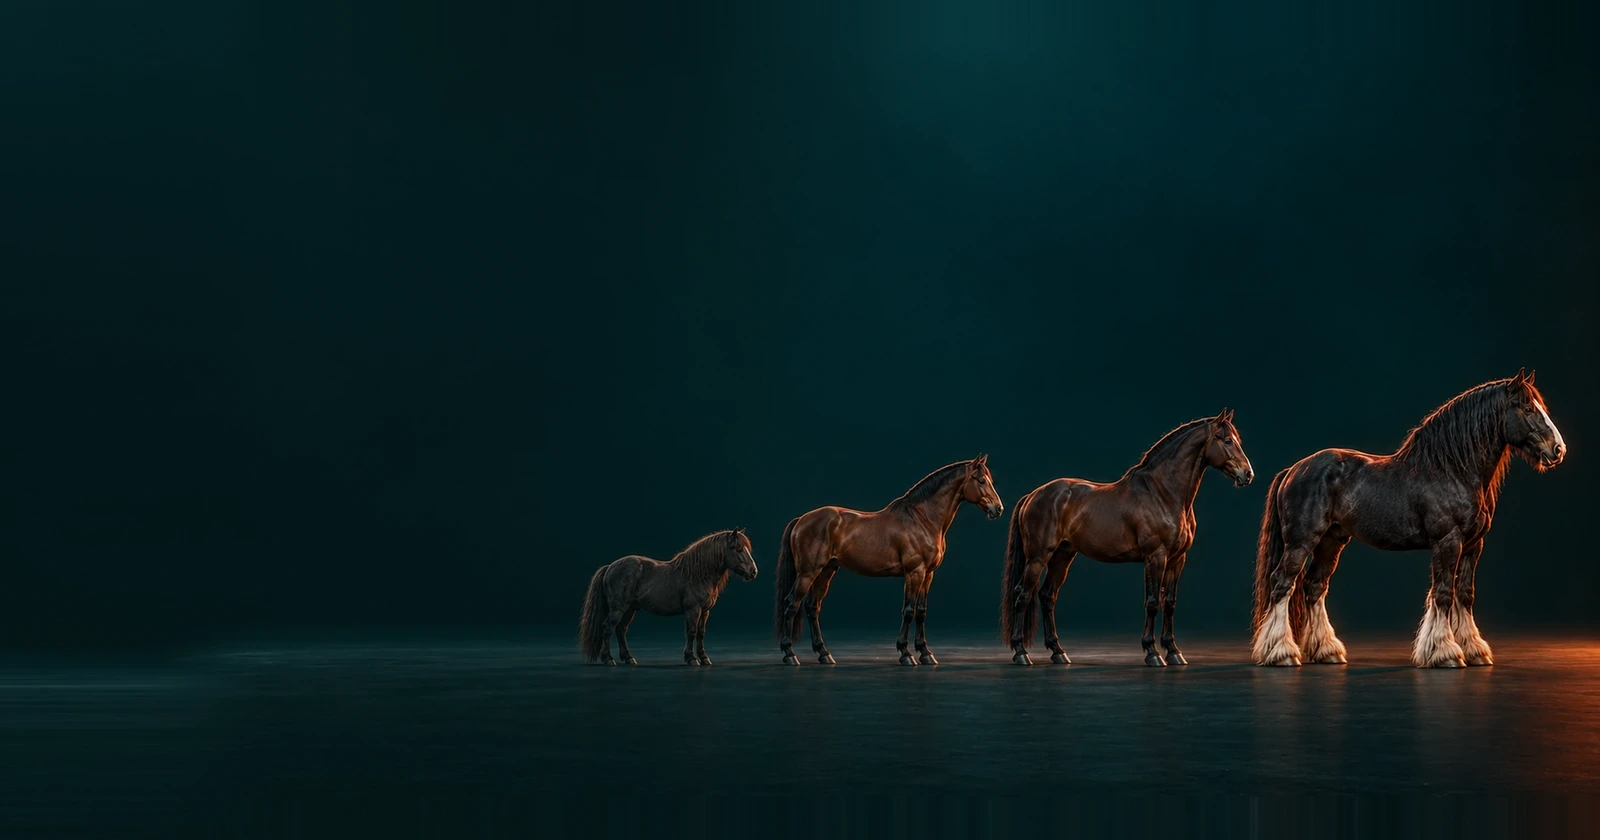
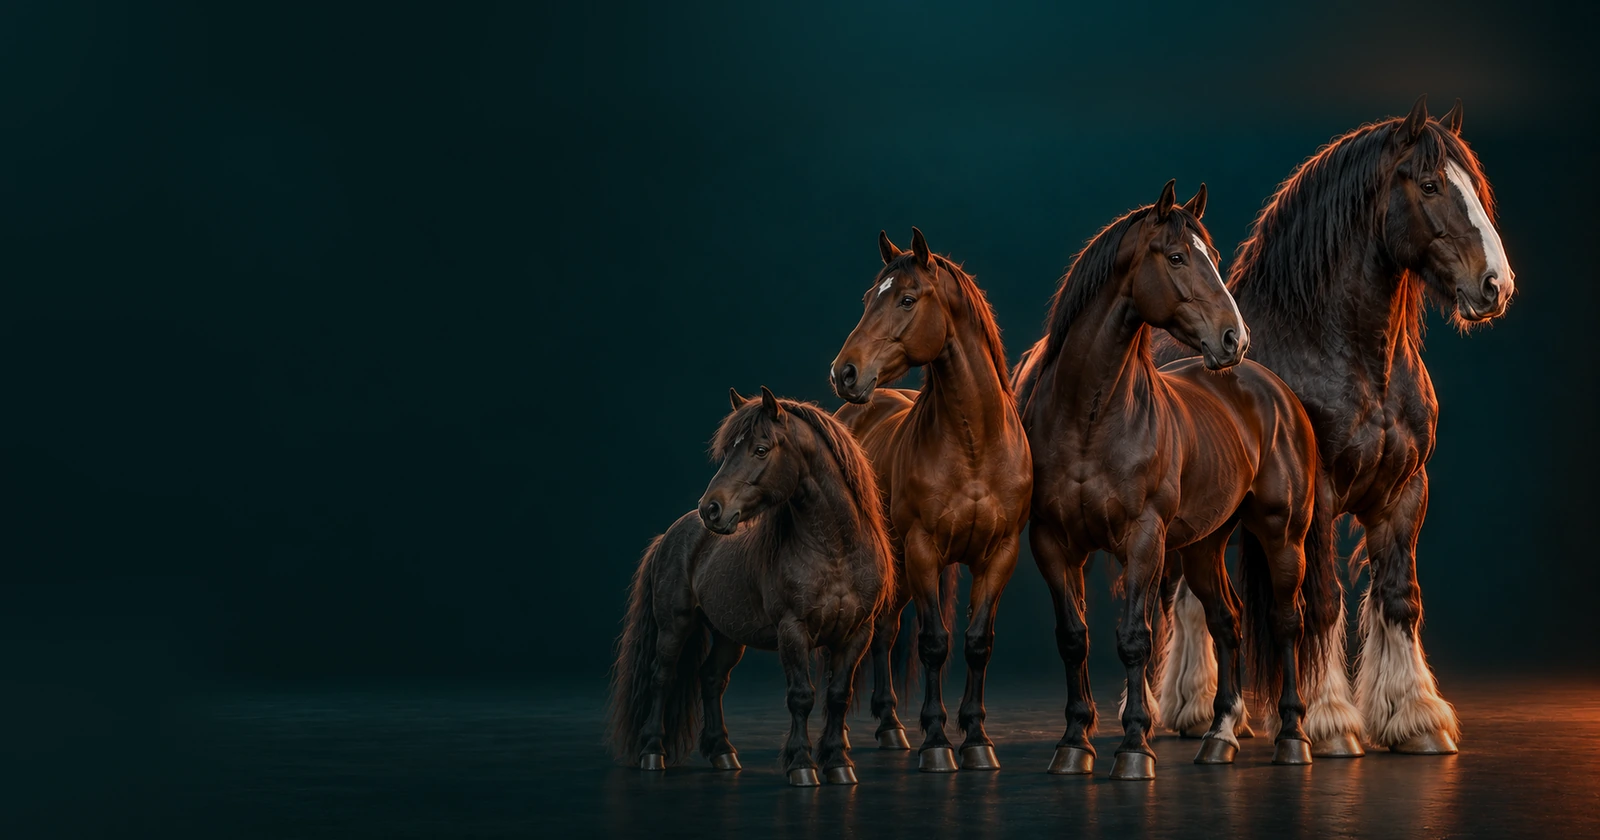
Обложка «Модель и effort»: лошади крупнее и вплотную, подзаголовок «Выбор режима под задачу»

Changed region(s): [[0.3438, 0.031, 1.0, 1.0], [0.1562, 0.7738, 0.1875, 0.8048], [0.0312, 0.8048, 0.0625, 0.8357]]

diff --git a/index.html b/index.html
@@ -364,7 +364,7 @@
         <p class="track-desc">Чат Claude.ai по одной настройке за раз. Ничего не нужно знать заранее</p>
         <div class="guides">
           <a class="guide-link" data-tags="claude green" data-kod="КЛОД" data-poisk="Claude помнит о тебе: что рассказать один раз память Memory инструкции о себе General поиск по старым чатам перенос из ChatGPT" aria-label="Claude помнит о тебе: что рассказать один раз" href="claude-ai/kak-rasskazat-o-sebe/"><img class="guide-cover" src="claude-ai/kak-rasskazat-o-sebe/assets/oblozhka.webp" alt="Claude помнит о тебе: что рассказать один раз. Портрет слона как образ памяти для статьи о сохранённых сведениях пользователя в Claude" width="1600" height="840" loading="lazy" decoding="async"><span class="guide-body"><span class="guide-summary">Клод запомнит, кто ты, и не придётся объяснять заново</span><span class="guide-meta"><span class="guide-level"><span class="track-dot green" aria-hidden="true"></span>Начальный уровень</span><span class="kind kind-instr">Инструкция</span></span></span></a>
-          <a class="guide-link" data-tags="claude green" data-kod="МОДЕЛЬ" data-poisk="Модель и уровень effort: что включать под задачу модель Opus Sonnet Haiku Fable effort усилие лимиты тарифа" aria-label="Модель и уровень effort: что включать под задачу" href="claude-ai/vybor-modeli-i-effort/"><img class="guide-cover" src="claude-ai/vybor-modeli-i-effort/assets/oblozhka.webp" alt="Модель и уровень effort: что включать под задачу. Четыре лошади в профиль на одной линии, от маленького пони до мощного шайра, как образ четырёх уровней effort" width="1600" height="840" loading="lazy" decoding="async"><span class="guide-body"><span class="guide-summary">Сложной задаче сильная модель, простой - быстрая и экономная</span><span class="guide-meta"><span class="guide-level"><span class="track-dot green" aria-hidden="true"></span>Начальный уровень</span><span class="kind kind-instr">Инструкция</span></span></span></a>
+          <a class="guide-link" data-tags="claude green" data-kod="МОДЕЛЬ" data-poisk="Модель и уровень effort: что включать под задачу модель Opus Sonnet Haiku Fable effort усилие лимиты тарифа" aria-label="Модель и уровень effort: что включать под задачу" href="claude-ai/vybor-modeli-i-effort/"><img class="guide-cover" src="claude-ai/vybor-modeli-i-effort/assets/oblozhka.webp" alt="Модель и уровень effort: что включать под задачу. Четыре лошади по росту, от пони до тяжеловоза, стоят вплотную вполоборота как образ уровней effort" width="1600" height="840" loading="lazy" decoding="async"><span class="guide-body"><span class="guide-summary">Сложной задаче сильная модель, простой - быстрая и экономная</span><span class="guide-meta"><span class="guide-level"><span class="track-dot green" aria-hidden="true"></span>Начальный уровень</span><span class="kind kind-instr">Инструкция</span></span></span></a>
           <a class="guide-link" data-tags="claude green" data-kod="СЕРВИСЫ" data-poisk="Gmail, Google Drive и Calendar внутри Claude Gmail Google Drive Google Calendar подключённые сервисы коннекторы доступ к почте" aria-label="Gmail, Google Drive и Calendar внутри Claude" href="claude-ai/podklyuchit-gmail-drive-calendar/"><img class="guide-cover" src="claude-ai/podklyuchit-gmail-drive-calendar/assets/oblozhka.webp" alt="Gmail, Google Drive и Calendar внутри Claude. Почтовый ящик, облако хранения и электронный календарь для подключения почты, файлов и встреч к Claude" width="1600" height="840" loading="lazy" decoding="async"><span class="guide-body"><span class="guide-summary">Письма, файлы и встречи прямо в чате с Клодом</span><span class="guide-meta"><span class="guide-level"><span class="track-dot green" aria-hidden="true"></span>Начальный уровень</span><span class="kind kind-instr">Инструкция</span></span></span></a>
           <a class="guide-link" data-tags="claude green" data-kod="ПОИСК" data-poisk="Веб-поиск в Claude: ответы со свежими ссылками веб-поиск Web search свежие ссылки проверка источников актуальные данные" aria-label="Веб-поиск в Claude: ответы со свежими ссылками" href="claude-ai/web-search-v-claude/"><img class="guide-cover" src="claude-ai/web-search-v-claude/assets/oblozhka.webp" alt="Веб-поиск в Claude: ответы со свежими ссылками. Поисковая строка и три веб-источника, из которых Claude собирает ответ со ссылками" width="1600" height="840" loading="lazy" decoding="async"><span class="guide-body"><span class="guide-summary">Свежие сведения со ссылками, которые легко проверить</span><span class="guide-meta"><span class="guide-level"><span class="track-dot green" aria-hidden="true"></span>Начальный уровень</span><span class="kind kind-instr">Инструкция</span></span></span></a>
           <a class="guide-link" data-tags="claude green" data-kod="ГОЛОС" data-poisk="Голосовой ввод в Claude: Dictate, Voice mode и выбор микрофона голосовой ввод Dictate Voice mode микрофон надиктовать говорить вместо печатать" aria-label="Голосовой ввод в Claude: Dictate, Voice mode и выбор микрофона" href="claude-ai/golosovoy-vvod-v-claude/"><img class="guide-cover" src="claude-ai/golosovoy-vvod-v-claude/assets/oblozhka.webp" alt="Голосовой ввод в Claude: Dictate, Voice mode и выбор микрофона. Студийный микрофон со световыми строками для статьи о голосовом вводе в Claude" width="1600" height="840" loading="lazy" decoding="async"><span class="guide-body"><span class="guide-summary">Не печатать, а говорить: два режима и настройка микрофона</span><span class="guide-meta"><span class="guide-level"><span class="track-dot green" aria-hidden="true"></span>Начальный уровень</span><span class="kind kind-instr">Инструкция</span></span></span></a>

diff --git a/claude-ai/vybor-modeli-i-effort/index.html b/claude-ai/vybor-modeli-i-effort/index.html
@@ -336,7 +336,7 @@
       <article>
         <header id="vybor-modeli">
           <p class="eyebrow">Claude.ai · выбор модели</p>
-          <figure class="cover cover-v2"><img src="assets/oblozhka.webp" width="1600" height="840" alt="Четыре лошади в профиль на одной линии, от маленького пони до мощного шайра, как образ четырёх уровней effort" loading="eager" decoding="async" fetchpriority="high"><figcaption>Сравнение моделей и уровней усилия для простых и сложных задач</figcaption></figure>
+          <figure class="cover cover-v2"><img src="assets/oblozhka.webp" width="1600" height="840" alt="Четыре лошади по росту, от пони до тяжеловоза, стоят вплотную вполоборота как образ уровней effort" loading="eager" decoding="async" fetchpriority="high"><figcaption>Сравнение моделей и уровней усилия для простых и сложных задач</figcaption></figure>
 <h1 class="article-title-v2">Модель и уровень effort: что включать под задачу</h1>
           <p class="meta">ПОШАГОВАЯ ИНСТРУКЦИЯ · ОБНОВЛЕНО 11 СЕНТЯБРЯ 2026</p>
 
